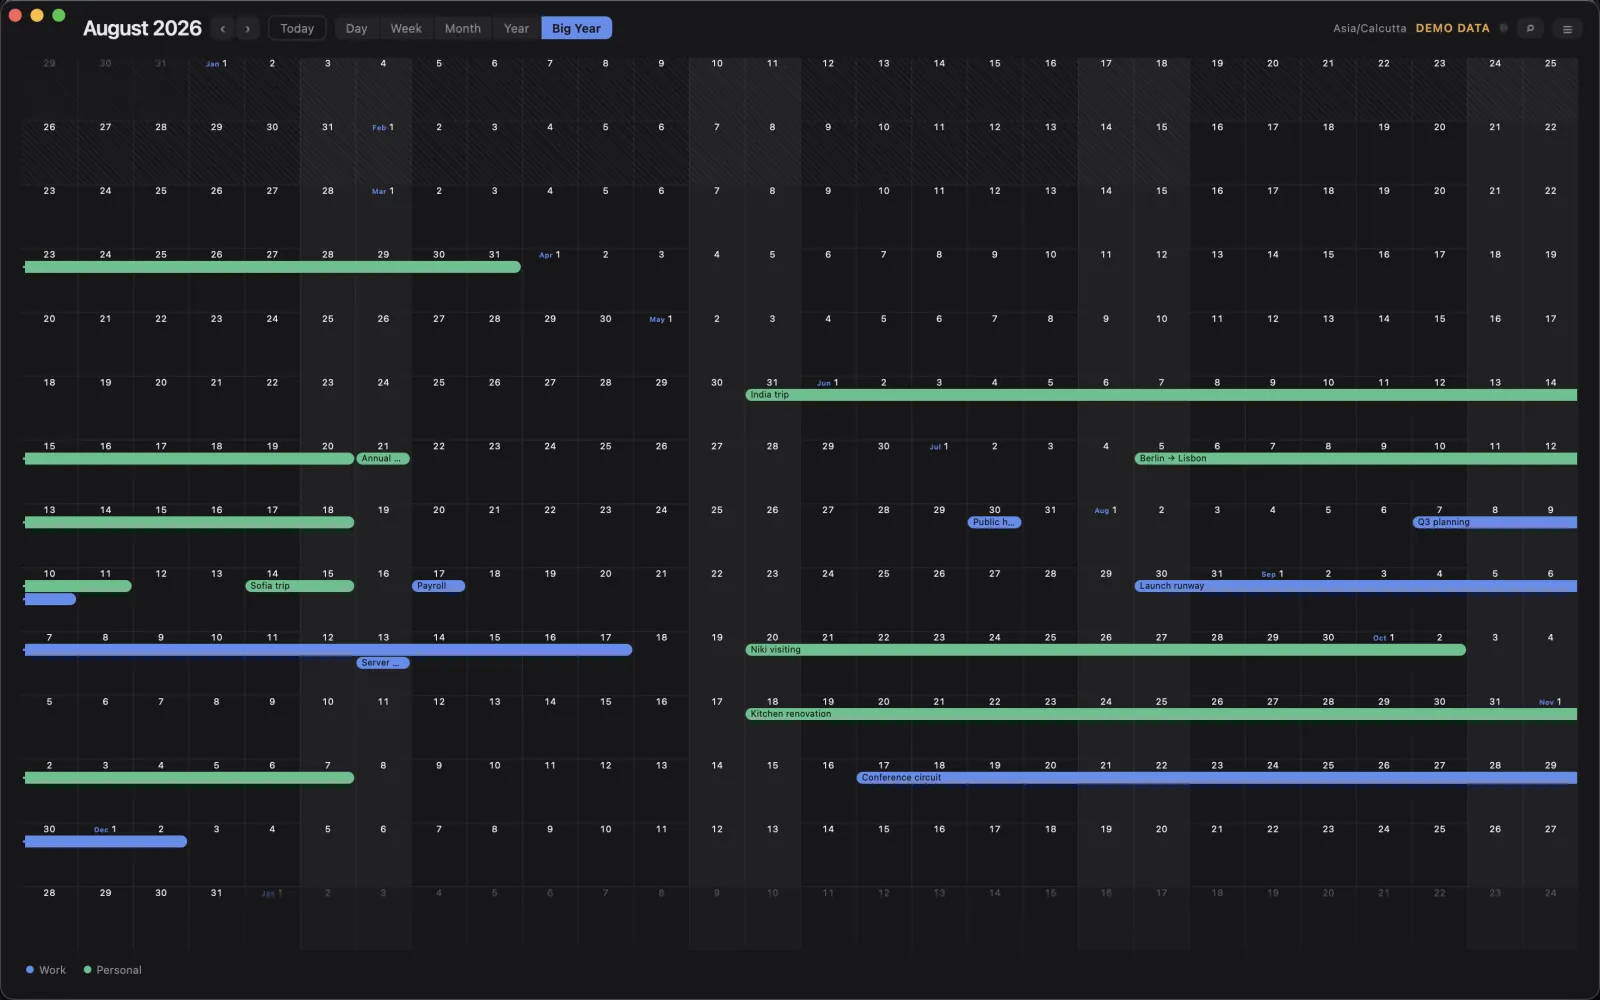
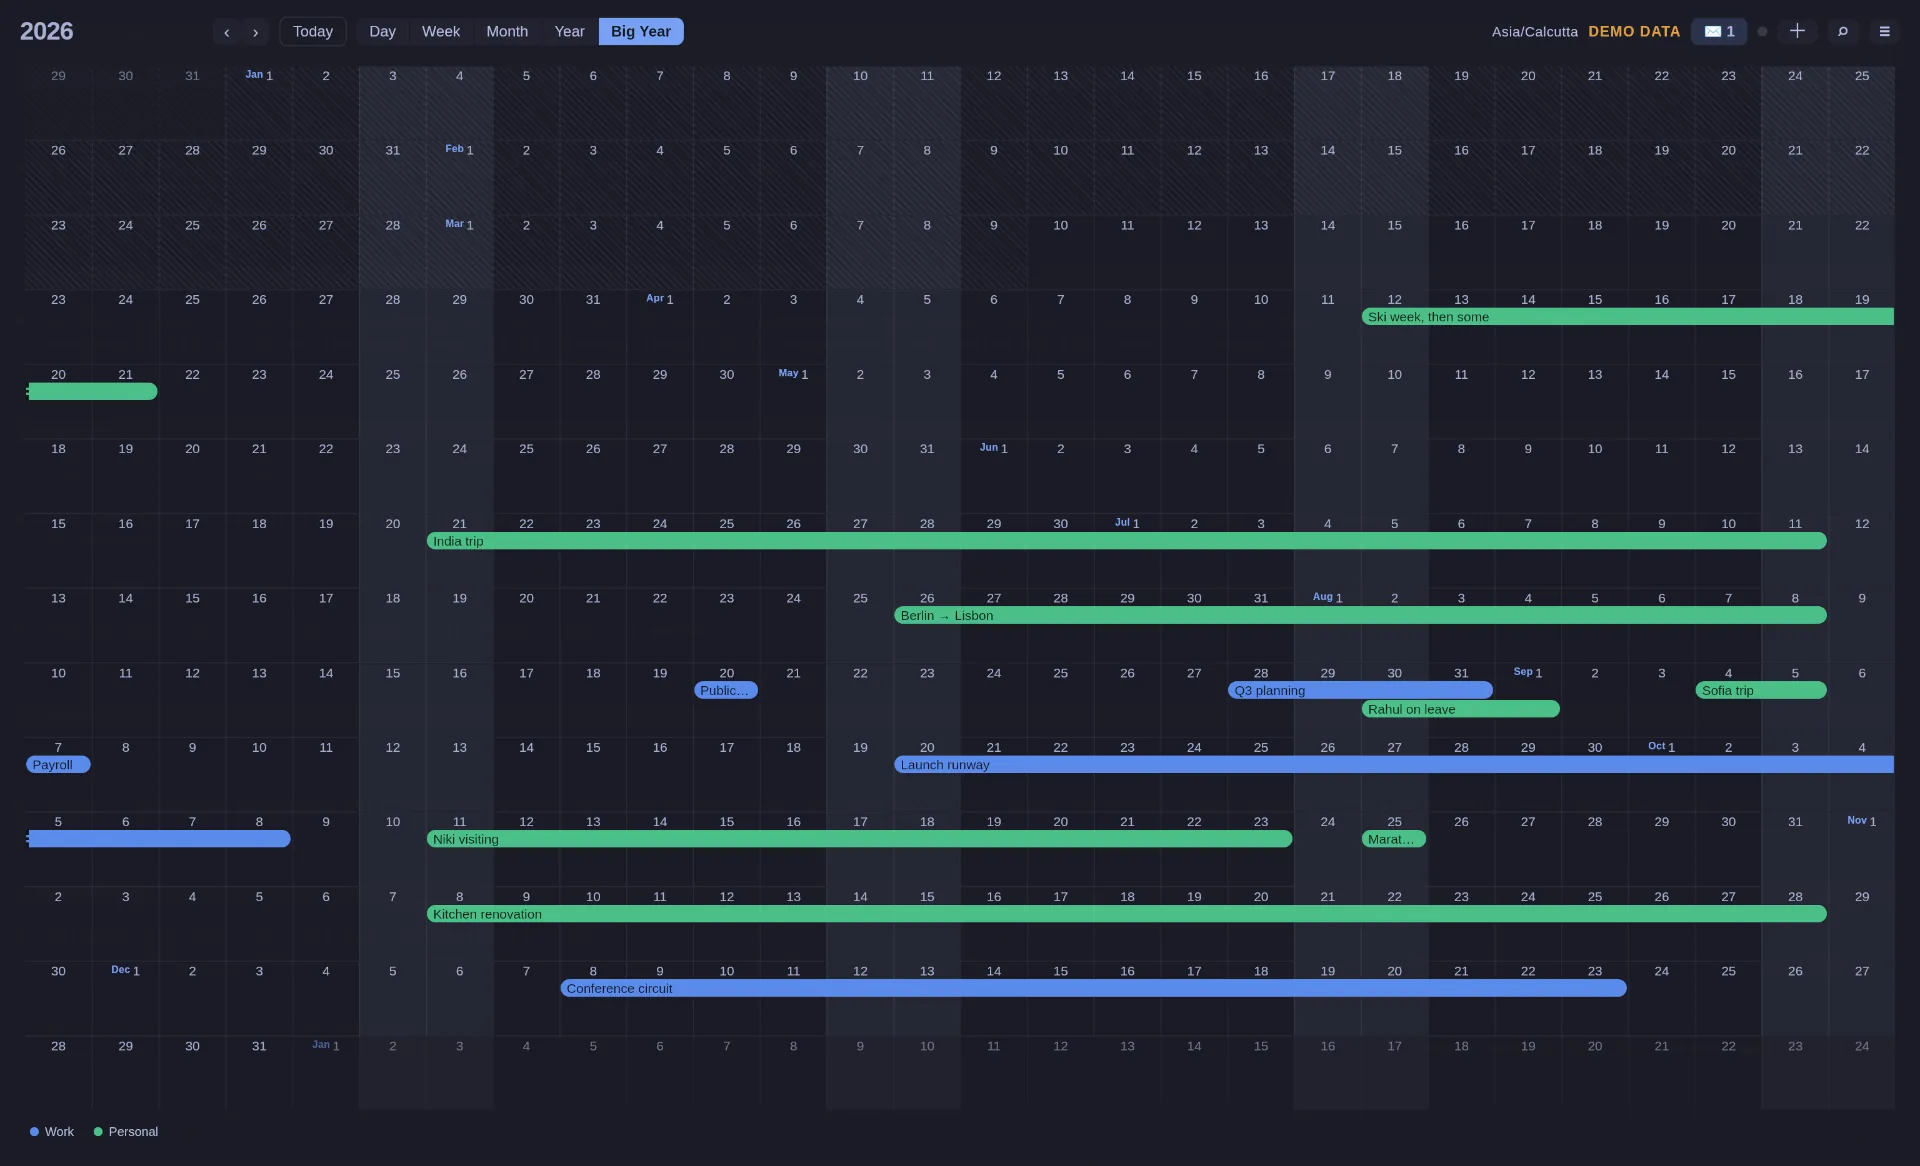
docs: current screenshots, and a shorter README
All three screenshots under docs/images are the ones omacal.app carries,
taken from v1.7.0 over the demo data; the Flatpak listing reads the same
files. The README loses a third of its length: the same sections, the
same facts, fewer words, and a pointer to the CLI guide on the site
instead of a second copy of it.

Claude-Session: https://claude.ai/code/session_01GabzsFfyts4eNZMbTkhtkQ

diff --git a/README.md b/README.md
@@ -2,123 +2,87 @@
 
 **Site, downloads and the CLI guide: [omacal.app](https://omacal.app)**
 
-A desktop calendar for Omarchy Linux — **Google Calendar, iCloud, or any
-CalDAV server**, with full create/edit/RSVP including recurring events at
-all three scopes, and a signed, notarized macOS build for the days you're
-not at the Arch machine. Tauri v2, Rust, Svelte 5. **No servers**: your
-events live in a local database, your tokens in your keyring, and nothing
-of yours passes through us.
+A native desktop calendar for **Google Calendar, iCloud and any CalDAV
+server**. Born on Omarchy Linux; runs on any Linux and on macOS. Tauri v2,
+Rust, Svelte 5. **No servers**: your events live in a local database, your
+tokens in your keyring, and nothing of yours passes through us.
 
-![OmaCal's Week view on Omarchy](docs/images/omacal-week.webp)
-
-Most of what a calendar must do, every calendar does. What earns OmaCal
-its place:
+![OmaCal's Week view](docs/images/omacal-week.webp)
 
 ## Your terminal and your agent read the same calendar
 
-The app binary is also a CLI. Reads come straight off the local database —
-no network, no re-auth, working offline:
+The app binary is also a CLI. Reads come straight off the local database,
+offline:
 
     omacal agenda --json
     omacal events list --from 2026-09-01 --to 2026-09-05 --json
     omacal search quarterly review
 
-Writes — `events create / update / delete / respond` — are executed by the
-running app over a local socket, behind the same guards its own form has:
-the CLI **refuses to guess** which occurrences of a repeating event you
-mean, or whether guests get emailed. Stable JSON envelope, stable exit
-codes, never prompts.
+Writes (`events create / update / delete / respond`) are carried out by the
+running app through the same guards its own form has. The CLI **refuses to
+guess** which occurrences of a repeating event you mean, or whether guests
+get emailed. Stable JSON envelope, stable exit codes, never prompts.
 
-And wiring a coding agent is one command:
+Wiring an agent is one command, and every update refreshes the installed
+skill:
 
     omacal skill install
 
-The agent skill ships inside the binary and **every update silently
-refreshes the installed copy**, so your agent never reads instructions for
-a binary that no longer matches. `omacal skill` prints it for any other
-framework; `omacal commands --json` is the machine-readable catalog.
+The full guide, with real output: [omacal.app/agents](https://omacal.app/agents).
 
 ## Built into Omarchy, not just running on it
 
-Colours come from your Omarchy theme and follow `omarchy-theme-set` live,
-no restart. Installing also installs (and keeps updated) the
-`omacal.upcoming` bar widget: what's running now, today's remaining
+Colours follow your Omarchy theme live. Installing also installs the
+`omacal.upcoming` bar widget: what is running now, today's remaining
 meetings, due tasks.
 
-## An invitation cannot slip past you
+## Invitations cannot slip past you
 
-A new invitation posts a desktop notification the moment sync sees it, and
-it **stays on screen until you deal with it** — click accepts the series.
-Miss it anyway and the header's envelope tray still holds it, with
-Yes / Maybe / No — alongside the rest of your meetings' news: who declined
-a meeting you organize, what got rescheduled ("Tue 15:30 → Wed 15:30"),
-what was cancelled. Deliberately quiet: only the invitation itself
-notifies; everything else is news in the app, not an interruption.
+A new invitation notifies you and **stays on screen until you deal with
+it**; one click accepts. The header tray keeps Yes / Maybe / No for anything
+unanswered, plus who declined your meetings and what was rescheduled or
+cancelled. Only the invitation itself notifies.
 
 ## It never emails people on your behalf
 
-Dragging an event with guests asks first — *Move without notifying* is the
-default. Saving an edit **asks who to tell** rather than mailing the room;
-fixing a typo in an address notifies nobody. On CalDAV, edits are
-etag-guarded: a change that raced another device tells you instead of
-clobbering.
+Moving an event with guests asks first, and *without notifying* is the
+default. Saving an edit **asks who to tell**. CalDAV edits are etag-guarded:
+a change that raced another device tells you instead of overwriting.
 
 ## Sign-in with nothing to configure
 
-**No API key, no Google Cloud project, nothing to create.** Installed
-builds carry OmaCal's own Google-verified client — connecting is the
-ordinary consent screen and that's it. iCloud connects with an
-app-specific password from appleid.apple.com; any other CalDAV server
-with its own URL. CalDAV **task lists** (VTODO) come along, manageable
-from the app.
+No API key, no cloud project. Installed builds carry OmaCal's own
+Google-verified client. iCloud connects with an app-specific password; any
+other CalDAV server with its URL. Task lists (VTODO) come along.
 
 ## Install
 
     curl -fsSL https://omacal.app/install.sh | sh
 
-One line for Linux x86_64 and macOS on Apple Silicon. On Linux the AppImage
-lands in `~/.local/bin` with a desktop entry; on a Mac, OmaCal.app lands in
-Applications with the `omacal` command on your PATH, signed and notarized,
-no right-click ritual. From then on the app updates itself: when a release
-exists, the header grows an **Update** button. A native `.deb` and `.rpm`
-are on the [releases page](https://github.com/x3me/omacal/releases), and so
-is the [.dmg](https://github.com/x3me/omacal/releases/latest/download/omacal.dmg)
-for anyone who would rather drag than paste.
-
-First sign-in stores the token in your keyring, so a minimal Hyprland
-session needs gnome-keyring, KeePassXC or kwallet running.
+Linux x86_64 and macOS on Apple Silicon. On Linux the AppImage lands in
+`~/.local/bin` with a desktop entry; on a Mac, OmaCal.app in Applications
+with the `omacal` command on your PATH, signed and notarized. A `.deb`,
+`.rpm` and `.dmg` are on the [releases page](https://github.com/x3me/omacal/releases).
+A minimal Hyprland session needs a keyring running: gnome-keyring,
+KeePassXC or kwallet.
 
 ## Updating
 
-**Usually nothing.** When a newer release exists, the header grows an
-**Update** button; one click fetches it, checks its signature and restarts.
-That is the AppImage and the macOS app both.
-
-Otherwise, by how you installed it:
-
-- **From the install line**, Linux or Mac — re-run the same line any time.
-  It replaces the installed copy with the current release.
-- **`.deb` / `.rpm`** — these do not self-update. Take the new package from
-  the [releases page](https://github.com/x3me/omacal/releases) and install it
-  over the old one.
-- **An AppImage manager** (AppImageUpdate, appimaged, AppManager) — the
-  released AppImage carries AppImage update information and publishes a
-  `.zsync` beside it, so these update it in place.
-
-Which version you are on: the footer of Settings prints it, and so does
-`omacal doctor`.
+When a newer release exists the header grows an **Update** button; one
+click fetches it, verifies the signature and restarts. Re-running the
+install line does the same. A `.deb` or `.rpm` is replaced with the newer
+package; AppImage managers update in place through the published `.zsync`.
+`omacal doctor` prints the version you are on.
 
 ## The rest, briefly
 
-Five views (Day to a whole-year 14-row ribbon), keyboard-first — press
-`?` for every key. A list mode that **leaves empty days out**: a quiet
-month is four rows, not thirty-one headers. Search that resolves a
-recurring event to one result. Multiple accounts; per-calendar colours
-that stay local and never touch Google. Reminders that mirror what your
-phone fires, with editable fallbacks for shared calendars that have none.
+Five views, Day to a whole-year ribbon; a week that can start today and
+show the next three, five or seven days; keyboard-first, with `?` showing
+every key; a list mode that leaves empty days out; search that resolves a
+repeating event to one result; several accounts, with colours that stay
+local; reminders that mirror what your phone fires.
 
-Building from source and using your own Google credentials:
-[`docs/running-on-omarchy.md`](docs/running-on-omarchy.md) ·
+Building from source: [`docs/running-on-omarchy.md`](docs/running-on-omarchy.md) ·
 [`docs/running-on-macos.md`](docs/running-on-macos.md). The design record
 lives under [`docs/superpowers/`](docs/superpowers/).
 
